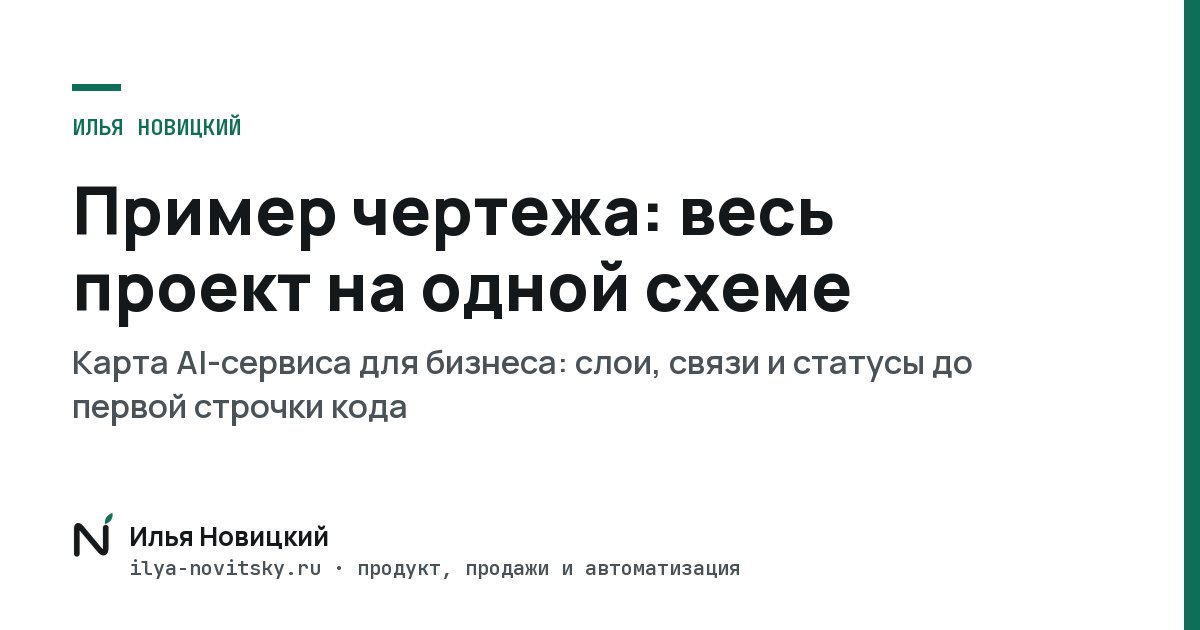
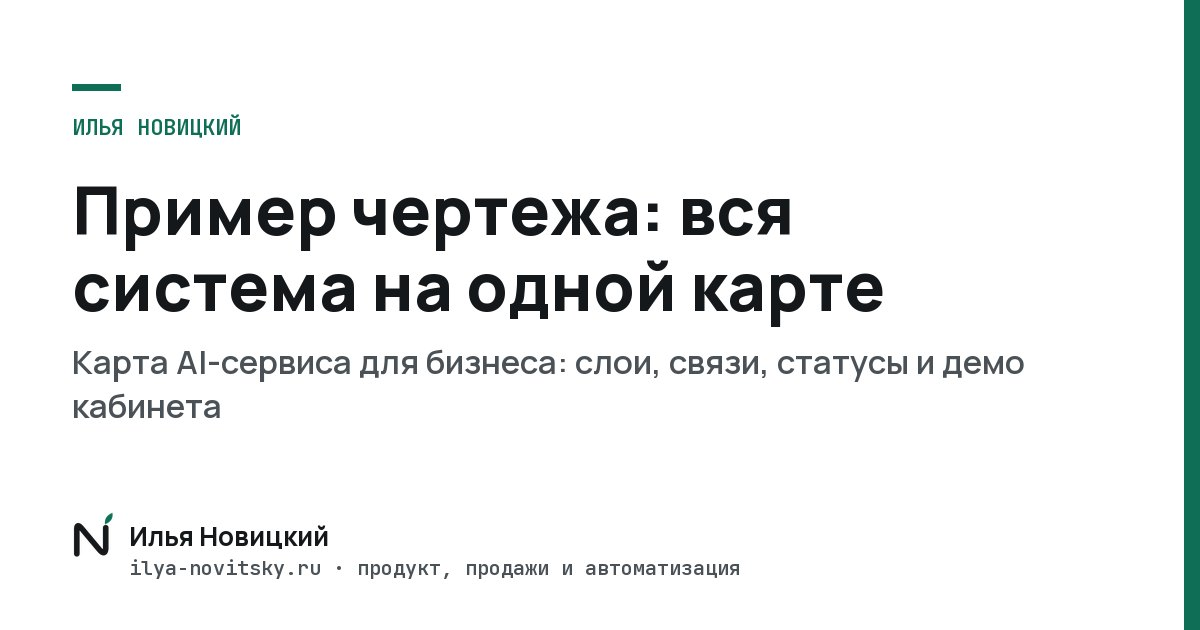
Пример чертежа по формуле: заголовок про всю систему, абзацы до 30 слов, без тире в подписях карты, превью без «до первой строчки кода» (#92)

diff --git a/content/pages/primer.ts b/content/pages/primer.ts
@@ -6,14 +6,15 @@ import { prices as P } from "@/config/prices";
 
 export const primer = typo({
 	meta: {
-		title: "Пример чертежа: весь проект на одной схеме",
+		title: "Пример чертежа: вся система на одной карте",
 		description: "Карта AI-сервиса для бизнеса от исследования рынка до первых клиентов: слои, связи и статусы. Так выглядит чертёж, который я собираю для вашего проекта.",
 	},
 	hero: {
 		crumb: "Пример чертежа",
 		kicker: "Пример чертежа",
-		h1: "Весь проект на одной схеме, до первой строчки кода",
-		lead: "Это карта моего продукта, AI-сервиса для бизнеса, от исследования рынка до первых клиентов. Видно, из каких частей он состоит, что от чего зависит и что уже готово. Такую же карту я собираю на шаге «Чертёж» для всей вашей системы: продукта, продаж, сайта, маркетинга и автоматизации.",
+		h1: "Вся система на одной карте, до того как платить за сборку",
+		lead: "Это карта моего AI-сервиса для бизнеса, от исследования рынка до первых клиентов: из каких частей он состоит, что от чего зависит и что уже готово.",
+		sub: "Такую же карту я собираю на шаге «Чертёж» для всей вашей системы: продукта, продаж, сайта, маркетинга и автоматизации.",
 		facts: { nodes: "блока", layers: "слоёв", links: "связи" },
 		button: "Обсудить чертёж",
 		more: "Как устроен чертёж →",
@@ -53,7 +54,8 @@ export const primer = typo({
 		num: "03",
 		label: "Прототип",
 		h2: "Кабинет, который можно прокликать до разработки",
-		lead: "Прототип и чертёж это разные вещи. Чертёж описывает всю систему, а прототип нужен, только если у вас свой продукт или приложение: тогда он входит в чертёж как одна из частей. Ниже демо кабинета того же AI-сервиса, собранное по карте до первой строчки кода.",
+		lead: "Прототип и чертёж это разные вещи. Чертёж описывает всю систему, а прототип нужен, только если у вас свой продукт или приложение: тогда он входит в чертёж одной из частей.",
+		note: "Это демо кабинета того же AI-сервиса. Его собрали по карте до первой строчки кода.",
 		screens: "11 экранов, основной путь проходится кликами",
 		open: "Открыть демо",
 		full: "На весь экран →",

diff --git a/src/app/primer-chertezha/page.tsx b/src/app/primer-chertezha/page.tsx
@@ -31,6 +31,7 @@ export default function Page() {
 					<p className="snum">{h.kicker}</p>
 					<h1>{h.h1}</h1>
 					<p className="lead">{h.lead}</p>
+					<p className="lead">{h.sub}</p>
 					<div className="past-n three pm-facts">{facts.map((x) => <div key={x.text}><b>{x.num}</b><span>{x.text}</span></div>)}</div>
 					<div className="cta-row">
 						<a className="btn p" href={site.contacts.telegram} target="_blank" rel="noopener" data-goal="cta_start">{h.button}</a>
@@ -57,6 +58,7 @@ export default function Page() {
 			<section id="demo" className="alt">
 				<div className="wrap">
 					<SectionHead num={d.num} label={d.label} title={d.h2} lead={d.lead} />
+					<p className="pm-note-l">{d.note}</p>
 					<DemoFrame />
 					<p className="under">{d.cap}</p>
 				</div>

diff --git a/src/styles/base.css b/src/styles/base.css
@@ -1410,3 +1410,4 @@ html{scroll-behavior:smooth}section[id]{scroll-margin-top:64px}@media(prefers-re
 @media(min-width:900px){.mpv{grid-template-columns:minmax(260px,.8fr) 1.4fr;align-items:center;padding:28px}}
 @media(max-width:520px){.mpv-map{grid-template-columns:repeat(2,1fr);max-height:260px}}
 .mpv-map{-webkit-mask-image:linear-gradient(#000 78%,transparent);mask-image:linear-gradient(#000 78%,transparent)}
+.pm-note-l{margin:-8px 0 18px;color:var(--ink2)}

diff --git a/scripts/primer/sync.py b/scripts/primer/sync.py
@@ -12,6 +12,8 @@ def check(name, text):
 
 m = open(os.path.join(SRC, "okidelo-map.public.json"), encoding="utf-8").read()
 check("карте", m); json.loads(m)
+# на сайте тире нет (формула текстов): «Сайт продукта — каркас» → «Сайт продукта: каркас»
+m = m.replace(" — ", ": ")
 open(os.path.join(ROOT, "content/data/project-map.json"), "w", encoding="utf-8").write(m)
 
 d = open(os.path.join(SRC, "okidelo-demo.html"), encoding="utf-8").read()
